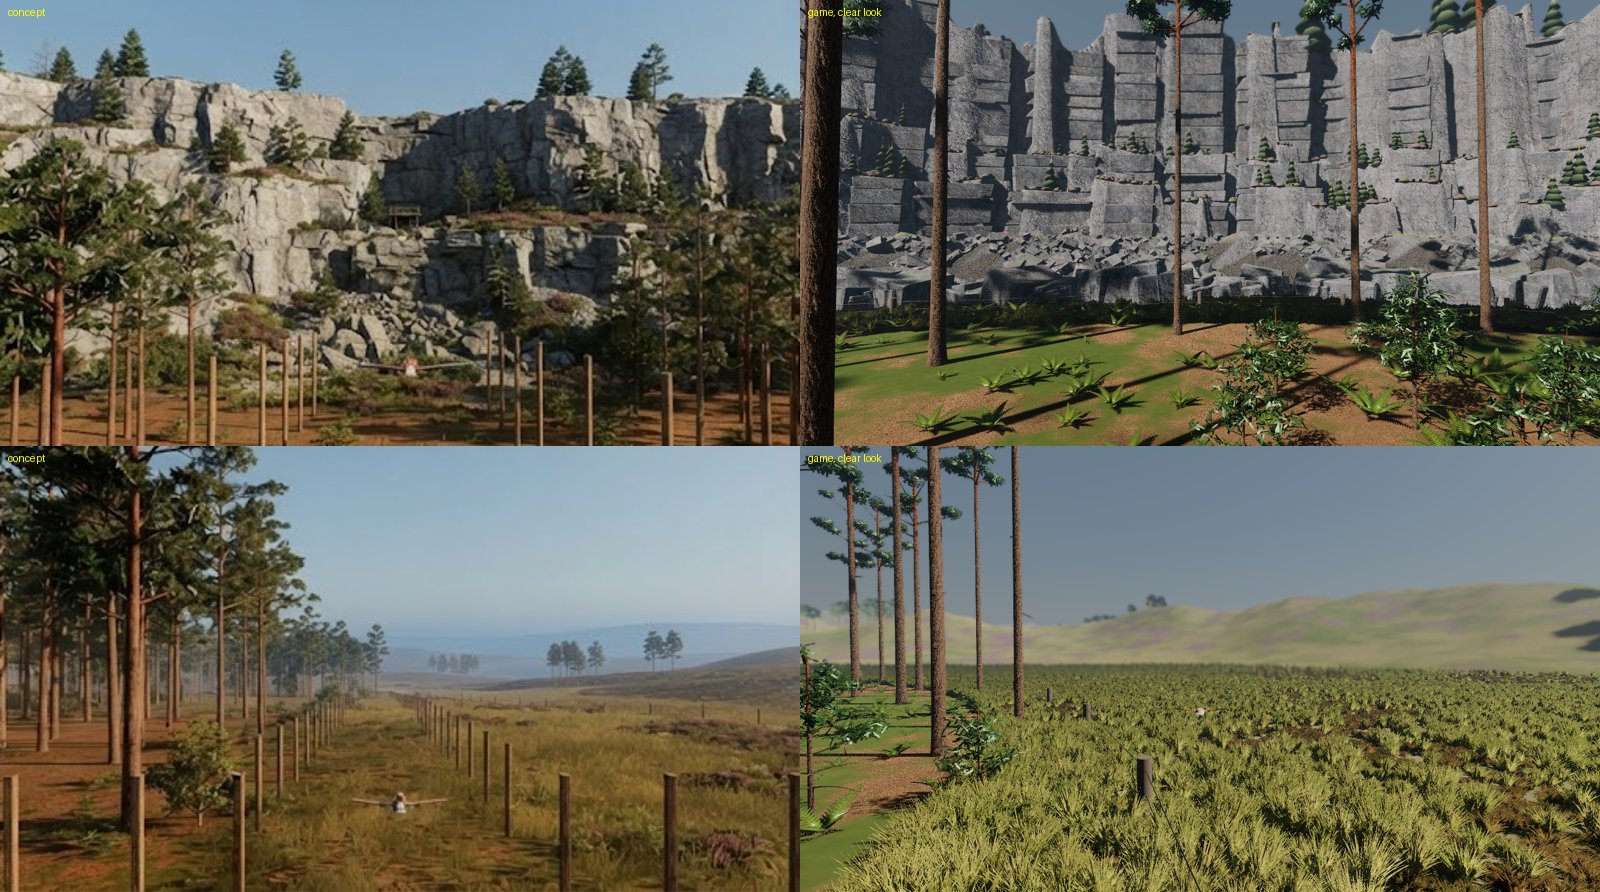
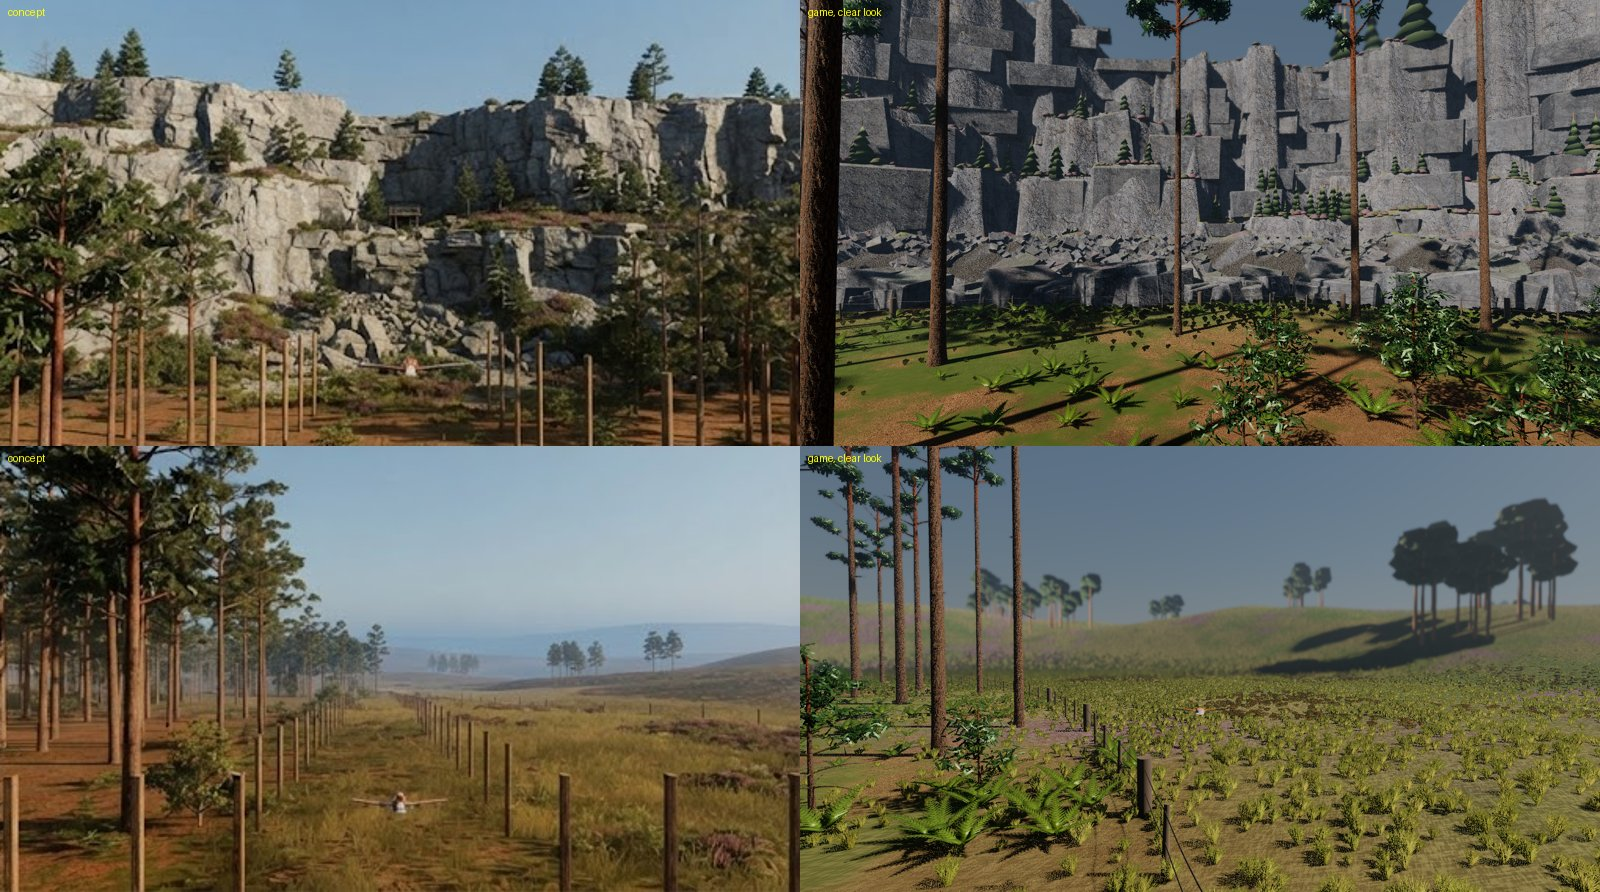
Edge, round six (traced against the concept): the cliff's beds dip in fault blocks and step at faults, ledges run on a slant and end, the skyline steps on its own; face courses follow the beds with staggered joints, tilted to the bed, bigger; the heath's near ridge on a slant over a valley and a far

Changed region(s): [[0.5, 0.5448, 1.0, 1.0], [0.5, 0.0, 1.0, 0.3935], [0.5, 0.333, 0.5938, 0.3935]]

diff --git a/docs/design/arena_edge.md b/docs/design/arena_edge.md
@@ -54,9 +54,32 @@ above the fight. A perch keeps a metre clear of a joint between blocks (the ledg
 The AI sees the rock: `ArenaLayout.rock_clear` is part of `clear_by` and `segment_clear` (skipped only for the rock's
 own perches, coming in or leaving), and the planner's lattice reaches out to the wall.
 
+## Structure: what makes it read as rock (round six)
+
+Traced against the concept, ours was a grid: the skyline, one ledge and the scree each one straight line across
+the frame, verticals evenly spaced between. The concept's lines are short, tilted and staggered. Now: the lower
+tiers' beds dip in fault blocks 30-60 m long (`Escarpment.dip`: a straight ramp in each, a step at each fault), so
+the ledges run on a slant, cross and end (a ledge runs out here and there and two faces meet in one); the top steps
+and tilts on its own (`skyline`); the face blocks lie in courses at fixed fractions of their tier (dipping with
+it), each course with its own joints (staggered), tilted to the bed's local slope (at most `BED_TILT`), longer
+than they're high; the top tier's beds run on level from below, cut by the skyline. The heath: a near ridge whose
+height swings round the ring (its crest on a slant), a valley, a long far ridge; a fence post every 2.8 m (drawn
+only) between the edge posts; the grass thinning in among the last trees and ending at the hills' foot.
+
+## Next for the cliff (research, round six)
+
+What games and tools do (sources in the session notes: Houdini strata and fracture breakdowns on 80.lv, Gaea's
+Stratify, Paris et al. 2020 "Modeling Rocky Scenery using Implicit Blocks", Peytavie et al. 2009 rock piles, DICE and
+Far Cry 5 GDC talks): cliffs are separate meshes over the terrain, cut by a fracture network -- bedding planes with
+uneven thickness and a dip, two near-vertical joint sets with uneven spacing, joints stopping at beds -- each panel
+(between joints, within a bed) set back by its bed's hardness, so hard beds over soft ones make the lips. Ranked
+for us: (1) the wall as its own displaced sheet r(theta, z) from such a joint-and-bed model (overhangs possible; the
+height field kept for the AI as its envelope); (2) blocks cut from the same planes (baked variants) instead of
+chamfered boxes, talus laid Peytavie-style; (3) the shader's bands, stains and joint lines driven by the same model.
+
 ## Cost
 
-Building it adds about 0.6 s to loading the wood (the rock's tier layout is worked out once per column of the grid,
+Building it adds about 0.6 s to loading the wood (now about 2 s with the sward and the fence: to bring down) (the rock's tier layout is worked out once per column of the grid,
 `Escarpment.column`; the dressing is placed on the built grid; the instance buffers are filled in one go). Drawn: the
 rock (90k triangles, one draw), the hills, and six instanced batches.
 
